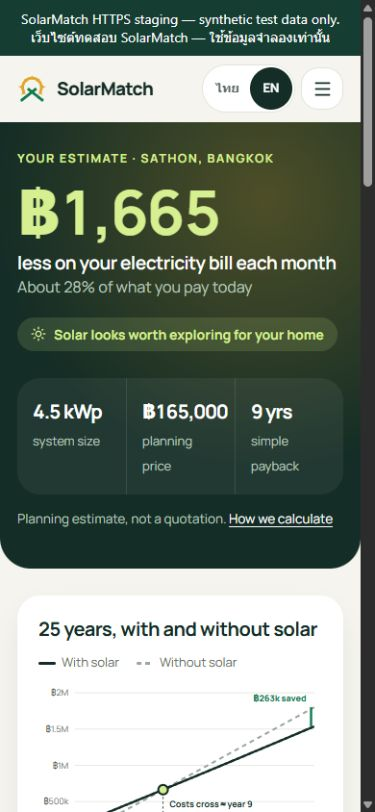
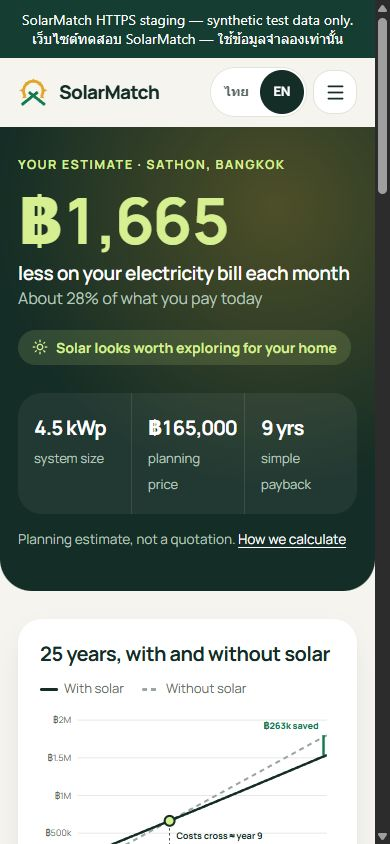
test: verify exact viewport dimensions for live review evidence

diff --git a/tests/unit/design-review-assets.test.ts b/tests/unit/design-review-assets.test.ts
@@ -1,6 +1,7 @@
 import {it,expect} from 'vitest';
 import {readFileSync,existsSync} from 'node:fs';
 import {createHash} from 'node:crypto';
+import {imageSize} from 'image-size';
 import {exampleLink} from '../../scripts/design-v2-review-assets.mjs';
 import {restoreSharedEstimate} from '@/lib/design-v2/share-estimate';
 it('keeps every original handoff file frozen',()=>{
@@ -18,4 +19,14 @@ it('does not package review assets through production public routes or its Worke
  expect(existsSync('public/design-review')).toBe(false);expect(existsSync('app/design-review')).toBe(false);
  expect(readFileSync('worker.ts','utf8')).not.toContain('staging-design-review');
  const packager=readFileSync('scripts/design-v2-review-assets.mjs','utf8');expect(packager).toContain("'.wrangler/design-v2-staging-assets'");expect(packager).not.toContain("cp(path.join(root,'docs/design-v2-comparison')");
+});
+it('records native live proof at the actual documented phone dimensions and hash',()=>{
+ const manifest=JSON.parse(readFileSync('docs/design-v2-comparison/SCREENSHOT_MANIFEST.json','utf8'));
+ for(const file of manifest.additionalLiveCaptures.files){
+  const bytes=readFileSync('docs/design-v2-comparison/'+file);
+  const entry=manifest.files.find((item:{path:string})=>item.path===file);
+  expect(imageSize(bytes)).toMatchObject({width:390,height:844,type:'jpg'});
+  expect(bytes.length).toBe(entry.bytes);
+  expect(createHash('sha256').update(bytes).digest('hex')).toBe(entry.sha256);
+ }
 });
